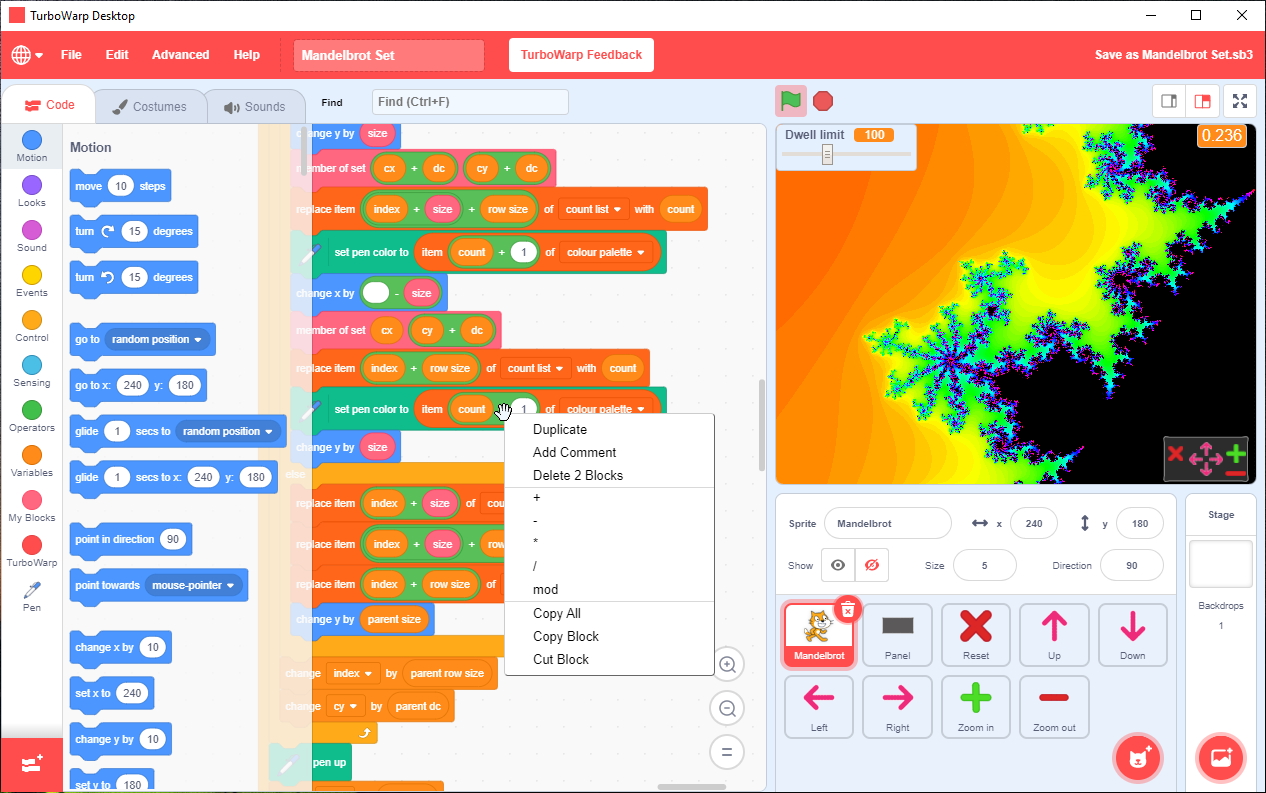
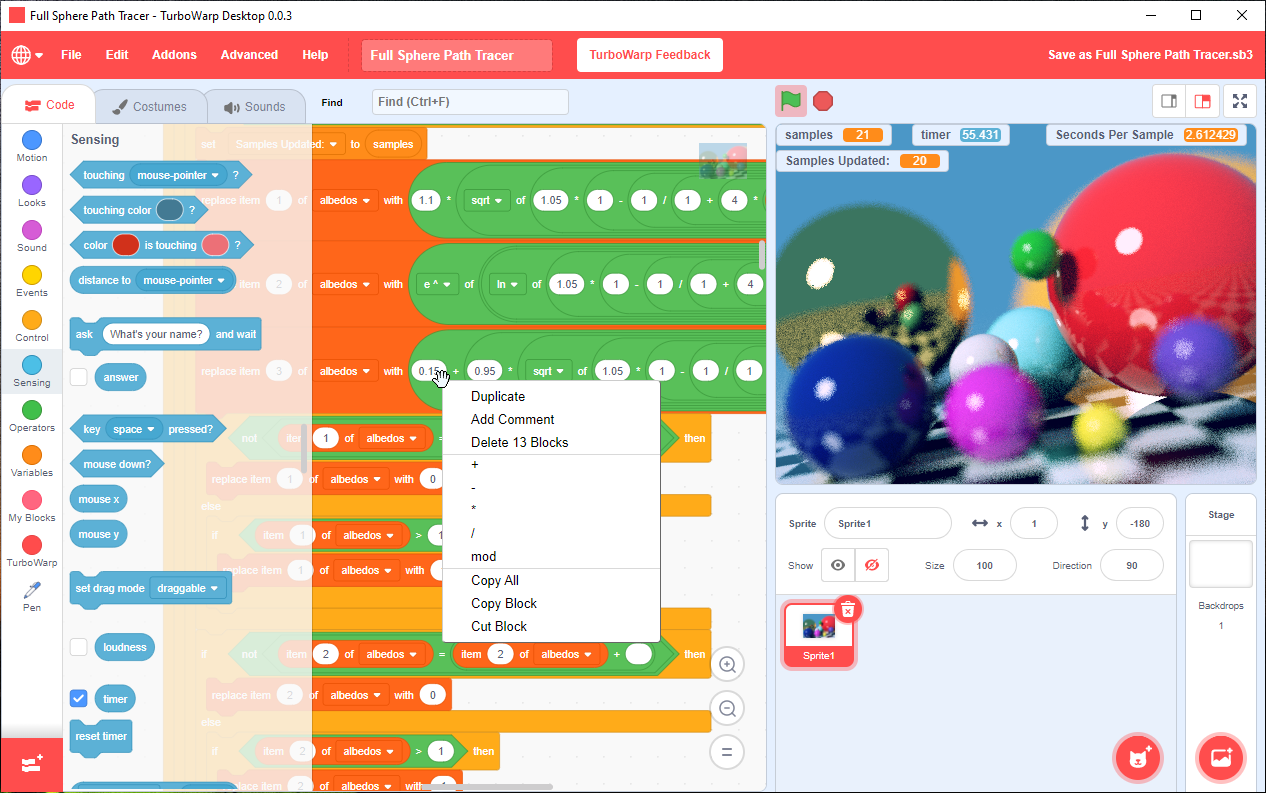
Update website

diff --git a/docs/index.html b/docs/index.html
@@ -13,6 +13,7 @@
         <h1 class="display-4">TurboWarp Desktop</h1>
         <p class="lead">Use TurboWarp from an app on your desktop.</p>
         <p>Please remember to save your project often. The compiler has not been audited and may have security vulnerabilities. Be cautious loading projects from users you don't trust.</p>
+        <p>Consider reading the <a href="privacy.html">privacy policy</a>. It's quite short!</p>
       </div>
     </div>
 
@@ -20,18 +21,18 @@
       <div class="row">
         <div class="col-md mb-3">
           <a class="btn btn-primary btn-block" href="https://github.com/TurboWarp/desktop/releases/latest">Windows</a>
-          <button class="btn btn-warning btn-block" disabled>Linux (coming soon; see <a href="https://github.com/TurboWarp/desktop/issues/26">GitHub issue</a>)</button>
+          <a class="btn btn-warning btn-block" href="https://github.com/TurboWarp/desktop/releases/latest">Linux (Debian/Ubuntu)</a>
         </div>
 
         <div class="col-md mb-3">
-          <a class="btn btn-danger btn-block" href="https://github.com/TurboWarp/desktop/releases/latest">macOS</button>
+          <a class="btn btn-danger btn-block" href="https://github.com/TurboWarp/desktop/releases/latest">macOS</a>
           <a class="btn btn-secondary btn-block" href="https://github.com/TurboWarp/desktop">Source Code</a>
         </div>
       </div>
 
       <div class="text-center">
         <img class="img-fluid" src="images/screenshot-win-light.png" width="1266" height="793" title="Project pictured: Mandlebrot Set by njdavison">
-        <p>Project pictured: <a href="https://scratch.mit.edu/projects/396320314/">Mandlebrot Set by njdavison</a></p>
+        <p>Project pictured: <a href="https://scratch.mit.edu/projects/425020125/">Full Sphere Path Tracer by piano_miles</a></p>
       </div>
     </div>
   </body>

diff --git a/docs/privacy.html b/docs/privacy.html
@@ -1,0 +1,17 @@
+<!DOCTYPE html>
+<html>
+  <head>
+    <style>
+      body {
+        font-family: sans-serif;
+        max-width: 600px;
+        margin: auto;
+      }
+    </style>
+  </head>
+  <body>
+    <h1>TurboWarp Desktop Privacy Policy</h1>
+    <p><i>Updated January 18th, 2021</i></p>
+    <p>When you launch the TurboWarp Desktop app, it may make a request to desktop.turbowarp.org to check for updates. We do not log these requests. This is an important security feature that can not be turned off. It will never automatically update -- it is always up to the user to decide.</p>
+  </body>
+</html>

diff --git a/docs/update_available.html b/docs/update_available.html
@@ -1,4 +1,3 @@
-<!-- TODO: show changelogs or update instructions on this page -->
 <script>
-location.replace('https://desktop.turbowarp.org');
+location.replace('https://github.com/TurboWarp/desktop/releases/latest');
 </script>
